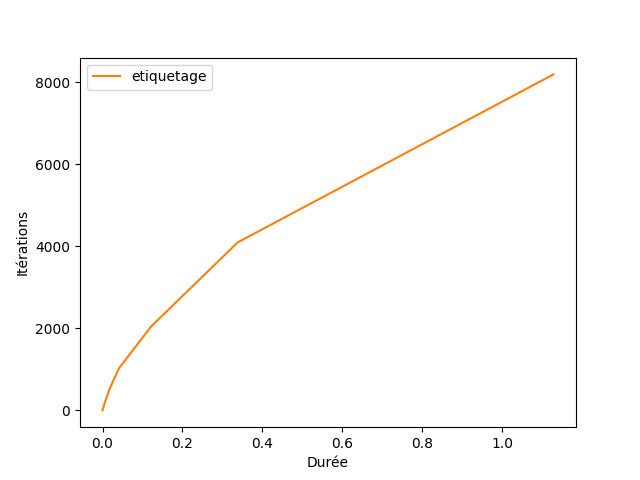
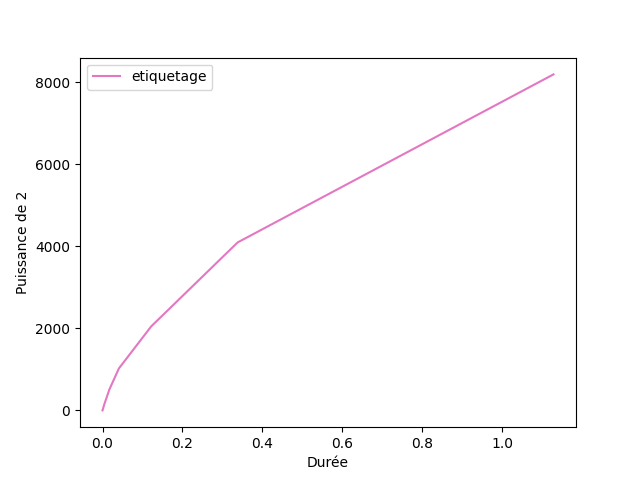
modification de l'affichage des courbes

diff --git a/script_courbes/courbes.py b/script_courbes/courbes.py
@@ -8,7 +8,7 @@ import matplotlib.cm as cm
 
 iterations = []
 durations = []
-file= open("exper_13_14_15/exper_gen_abrs_20.txt","r")
+file= open("exper_16_17_18_19/exper_gen_abr_15_5.txt","r")
 lines = file.readlines()
 for line in lines:
     res=line.strip().split(":")
@@ -21,13 +21,13 @@ couleur=cm.tab20(np.linspace(0, 1, 20))
 plt.plot(durations,iterations,label=f"etiquetage",color=couleur[random.randint(0,19)])
     
 plt.legend()
-plt.ylabel("Itérations")
+plt.ylabel("Puissance de 2")
 plt.xlabel("Durée")
 plt.show()
 file.close()
 # Courbes pour les résultats de la 2.14 
 
-
+"""
 iterations = []
 durations = []
 taille_liste = []
@@ -74,7 +74,7 @@ plt.show()
 #plt.ylabel("taille du polynome")
 #plt.show()
 file.close()
-
+"""
 
 #  Courbes pour les résultats de la 2.15
 """
